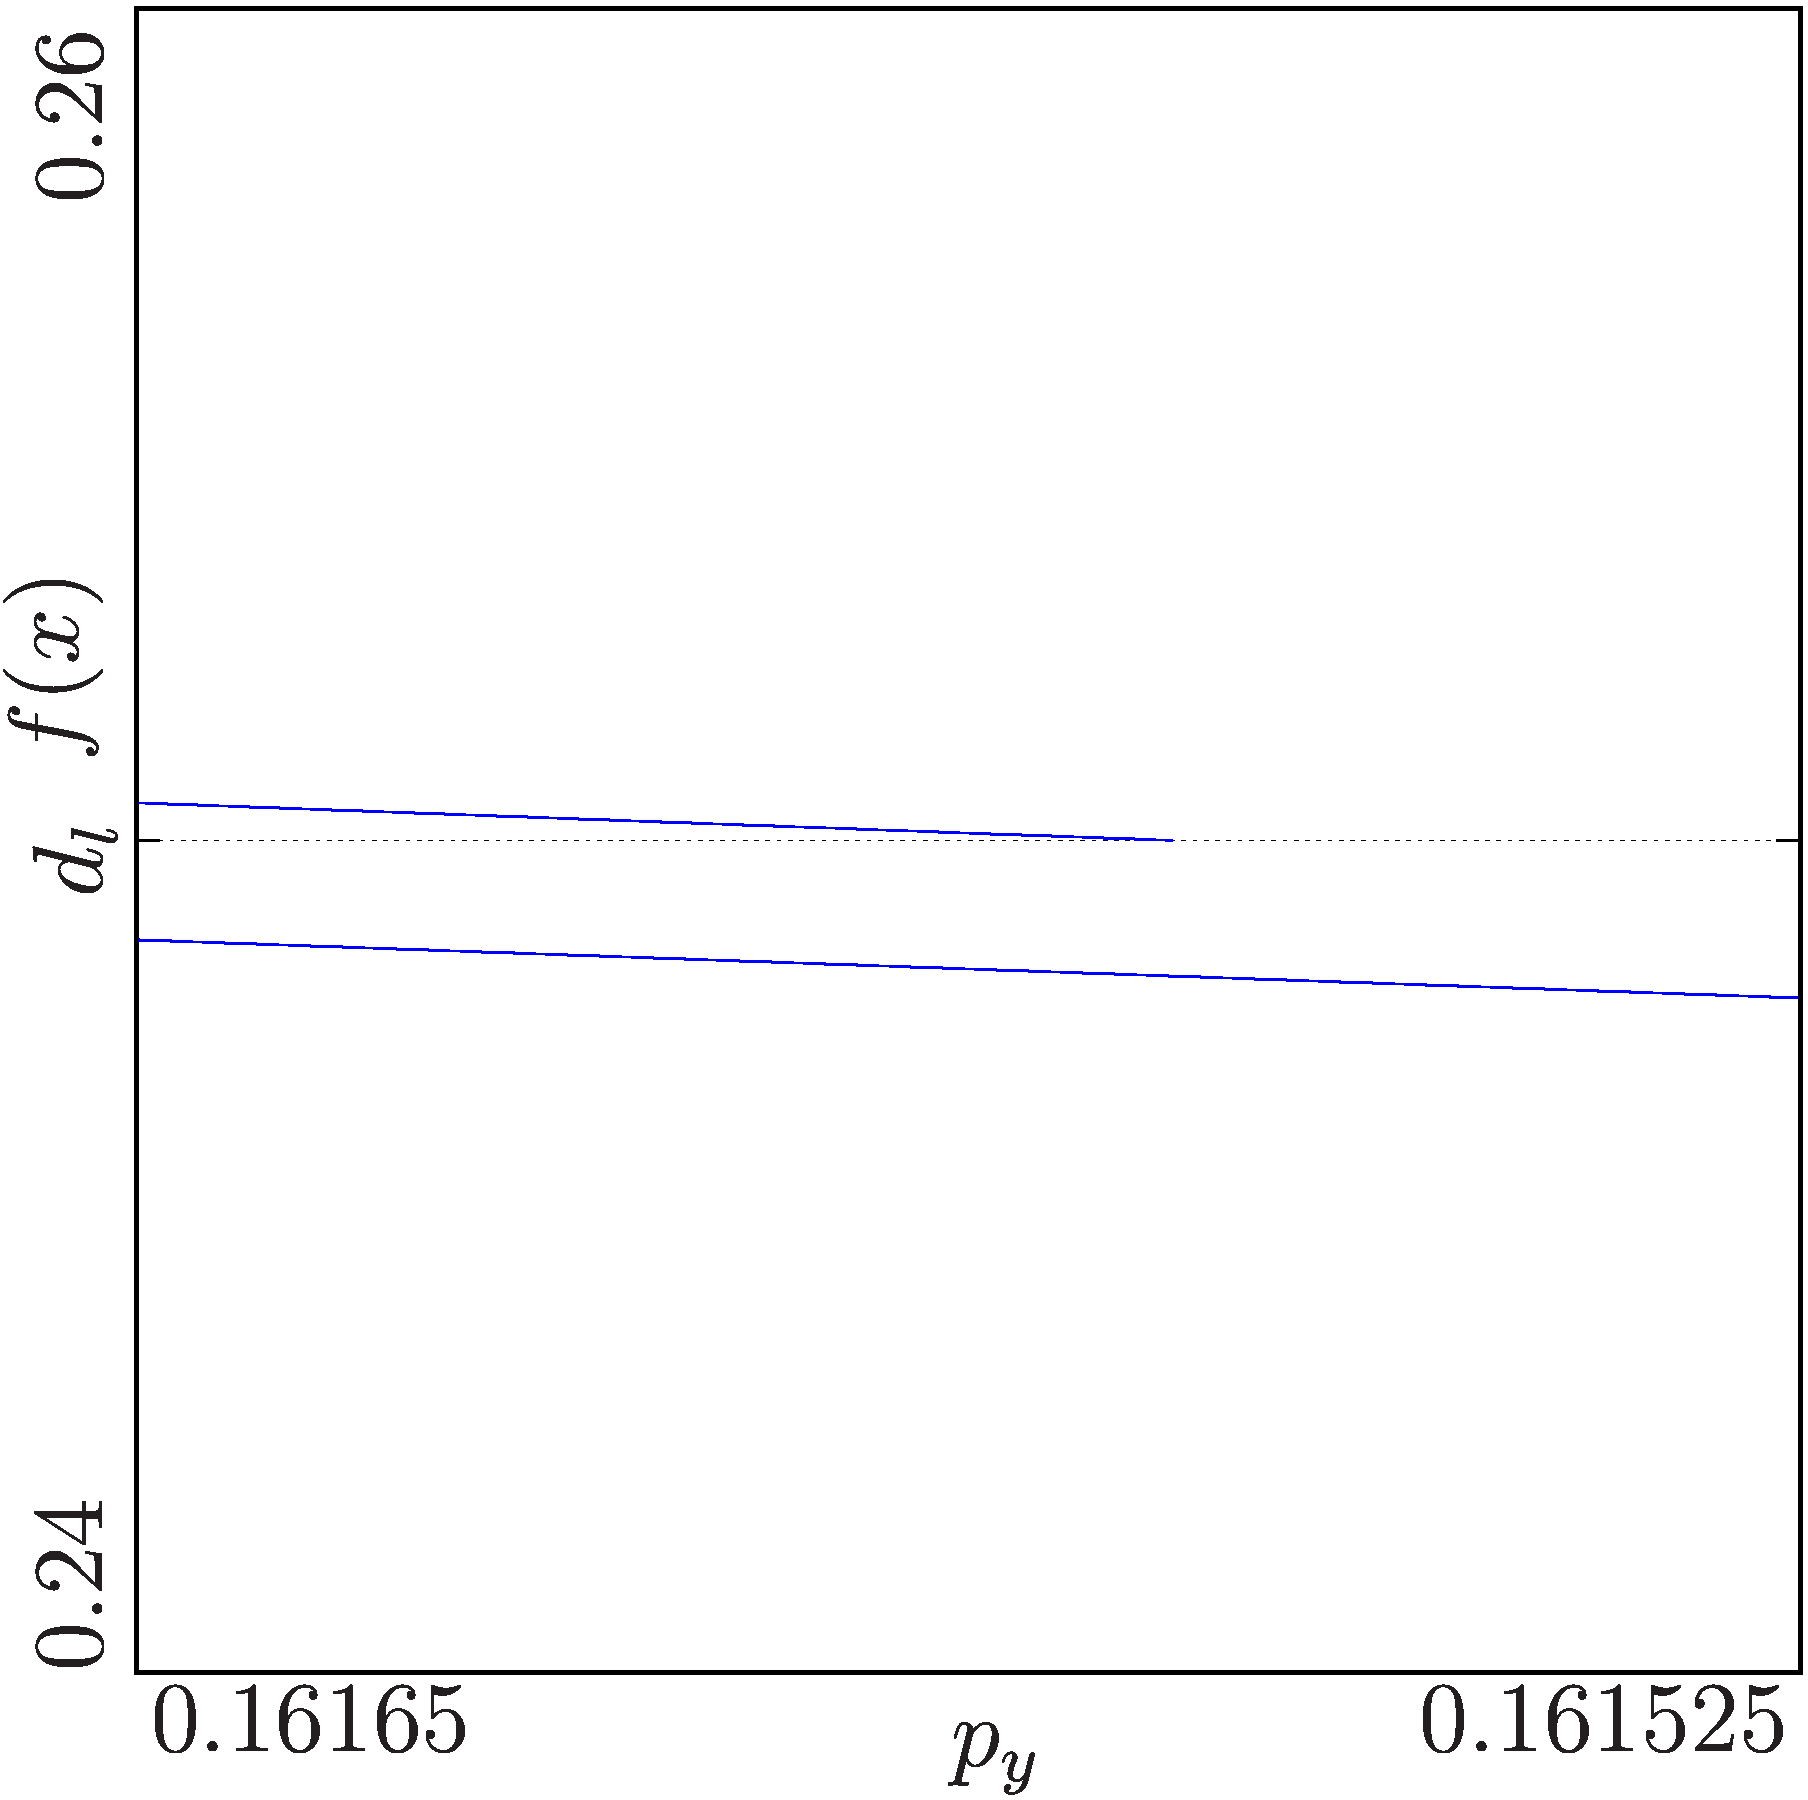
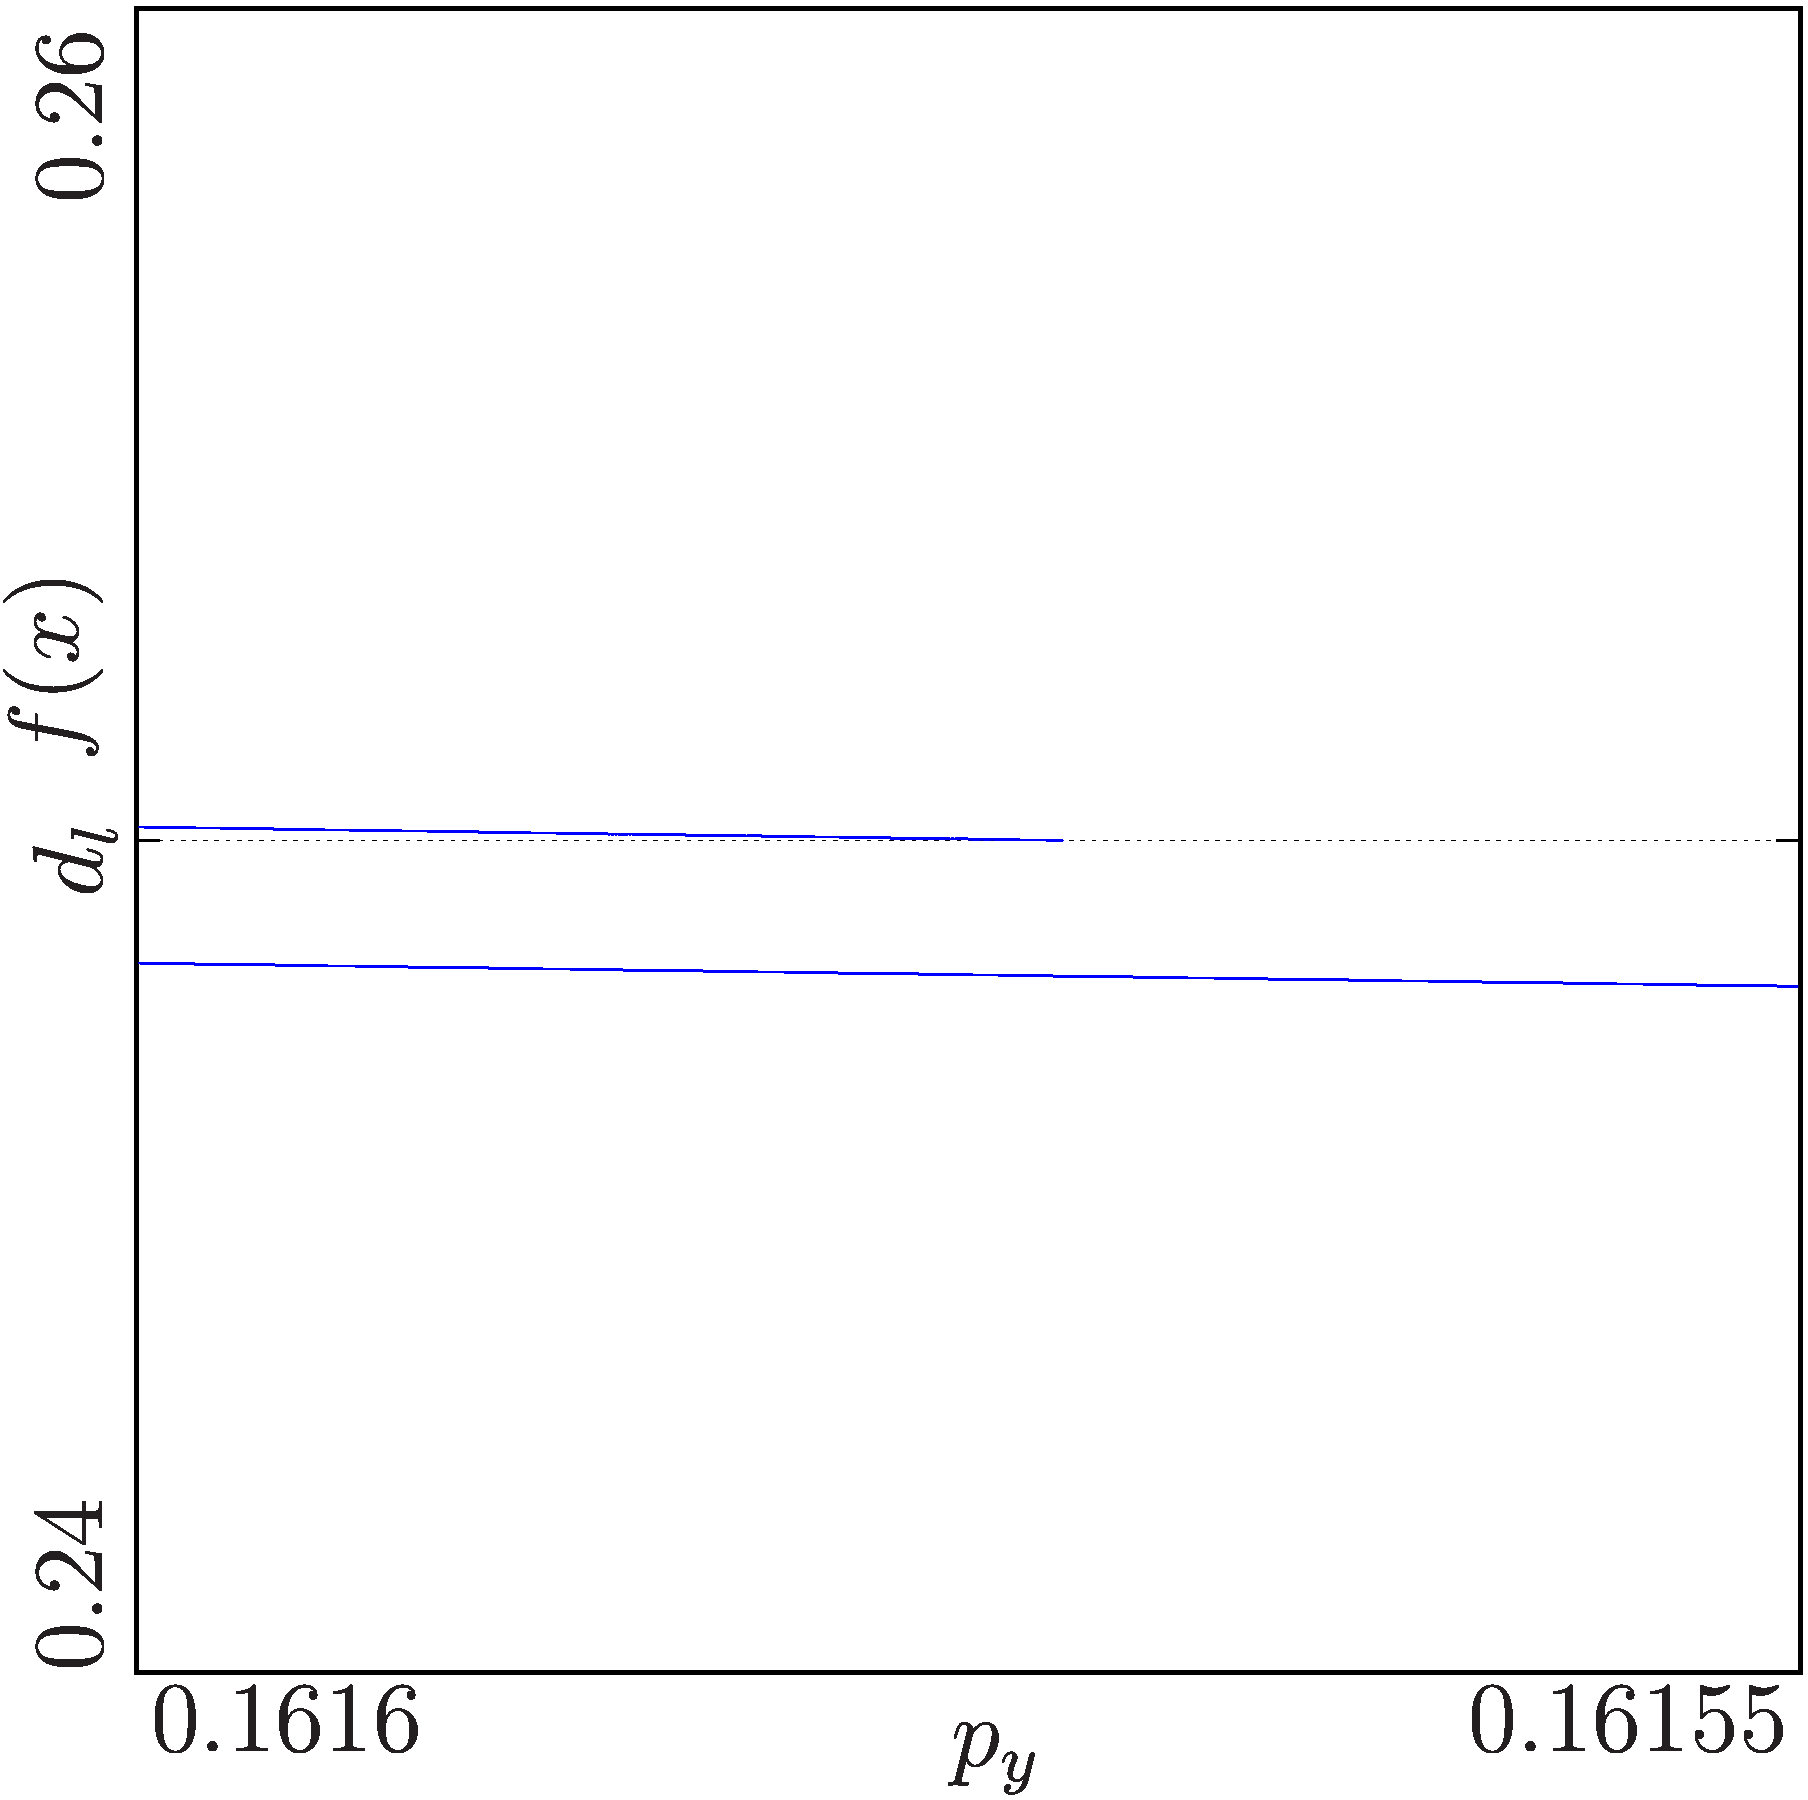
add 1D bifurcations for upper border of C16

diff --git a/Report/Sections/60_FinalModel/50_bifurcations.tex b/Report/Sections/60_FinalModel/50_bifurcations.tex
@@ -22,6 +22,25 @@
 
 \subsection{Type A Parameter Regions}
 
+\subsubsection{$C_{16}^\uparrow$}
+
+\begin{figure}
+    \centering
+    \begin{subfigure}{0.4\textwidth}
+        \centering
+        \includegraphics[width=\textwidth]{60_Final/1D_Bif_LCU16/result.png}
+        \caption{Complete}
+        \label{fig:bifurcation.C.up}
+    \end{subfigure}
+    \begin{subfigure}{0.4\textwidth}
+        \centering
+        \includegraphics[width=\textwidth]{60_Final/1D_Bif_LCU16_Zoomed/result.png}
+        \caption{Zoomed in at Border $\A\B$}
+        \label{fig:bifurcation.C.up.zoomed}
+    \end{subfigure}
+    \caption{1D Bifurcation Diagram of $C_{16}^\uparrow$}
+\end{figure}
+
 \subsubsection{$C_{16}^\downarrow$}
 
 \begin{figure}
@@ -30,13 +49,13 @@
         \centering
         \includegraphics[width=\textwidth]{60_Final/1D_Bif_LCD16/result.png}
         \caption{Complete}
-        \label{fig:final.regions.whole.halved}
+        \label{fig:bifurcation.C.down}
     \end{subfigure}
     \begin{subfigure}{0.4\textwidth}
         \centering
         \includegraphics[width=\textwidth]{60_Final/1D_Bif_LCD16_Zoomed/result.png}
-        \caption{Zoomed in to Border $\A\B$}
-        \label{fig:final.regions.CandD16.halved}
+        \caption{Zoomed in at Border $\A\B$}
+        \label{fig:final.bifurcation.C.down.zoomed}
     \end{subfigure}
     \caption{1D Bifurcation Diagram of $C_{16}^\downarrow$}
 \end{figure}
